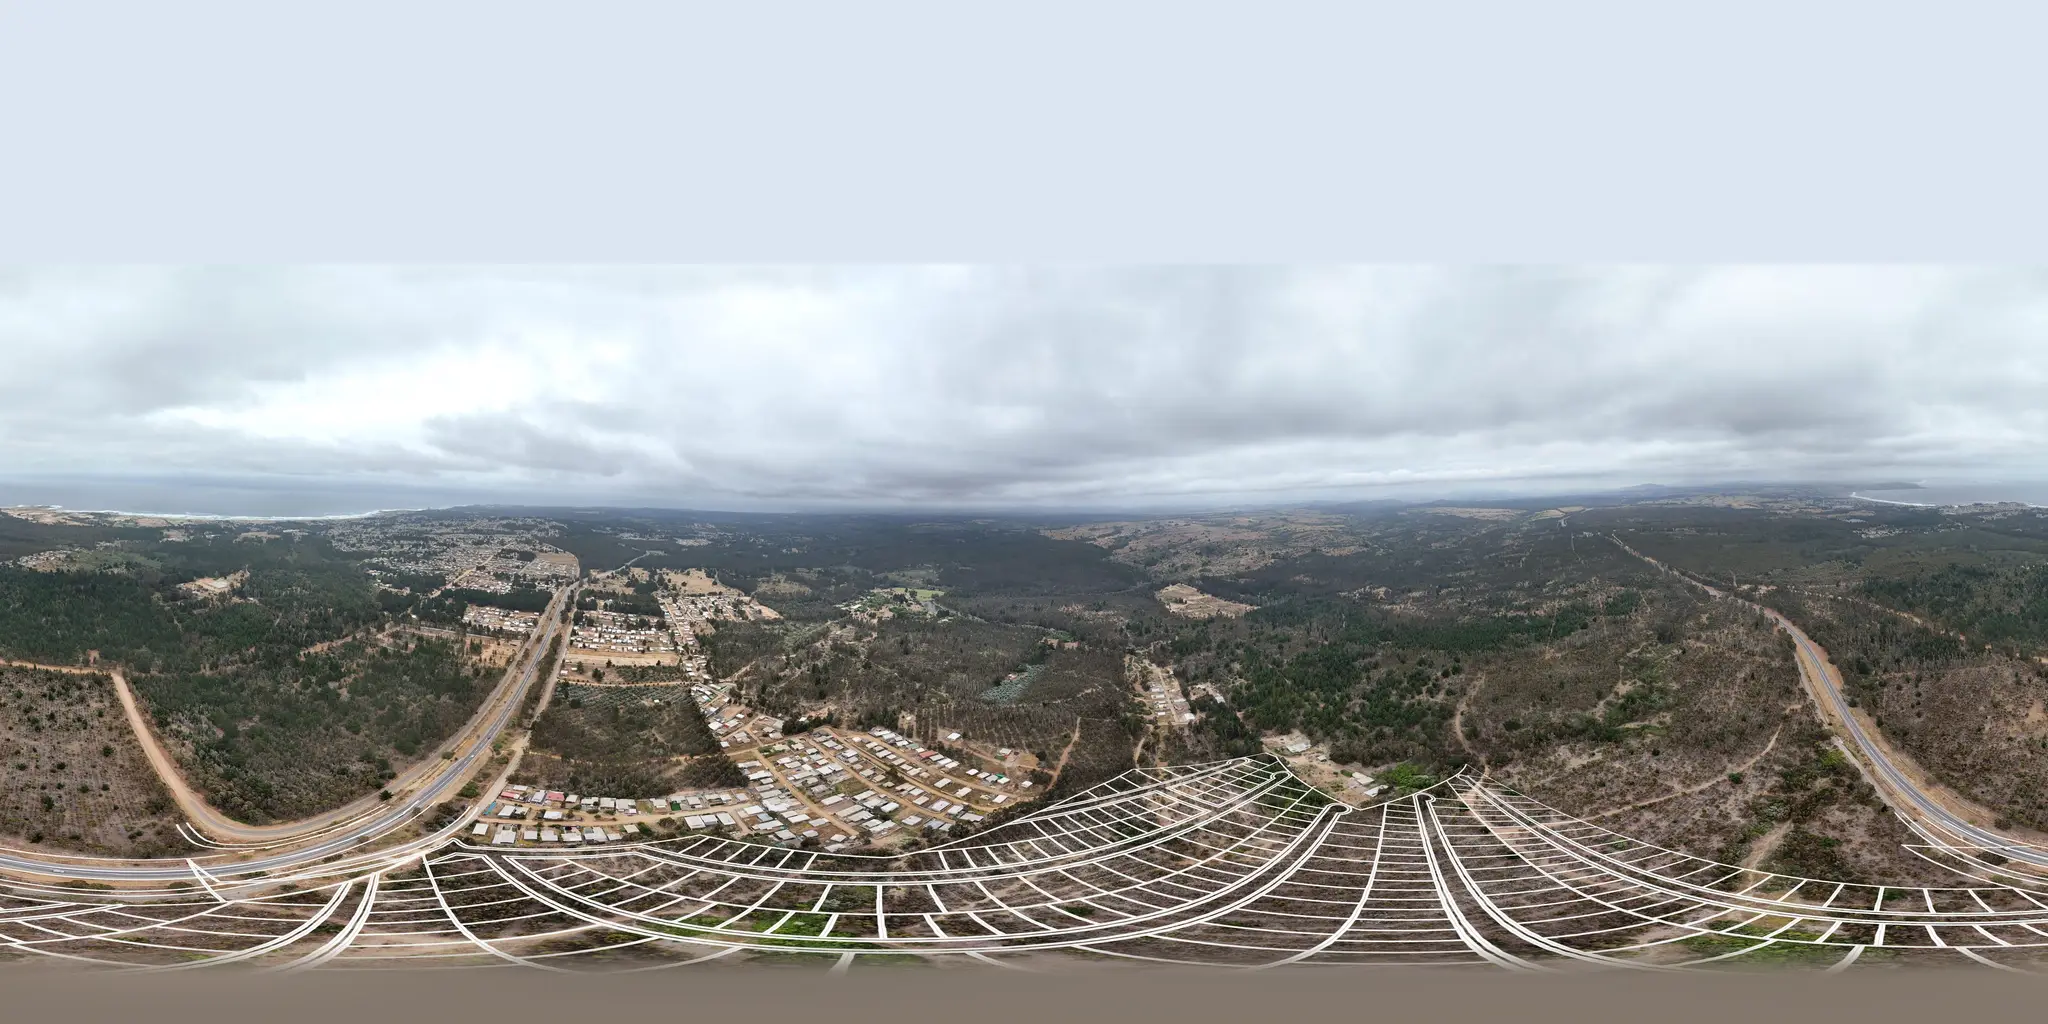
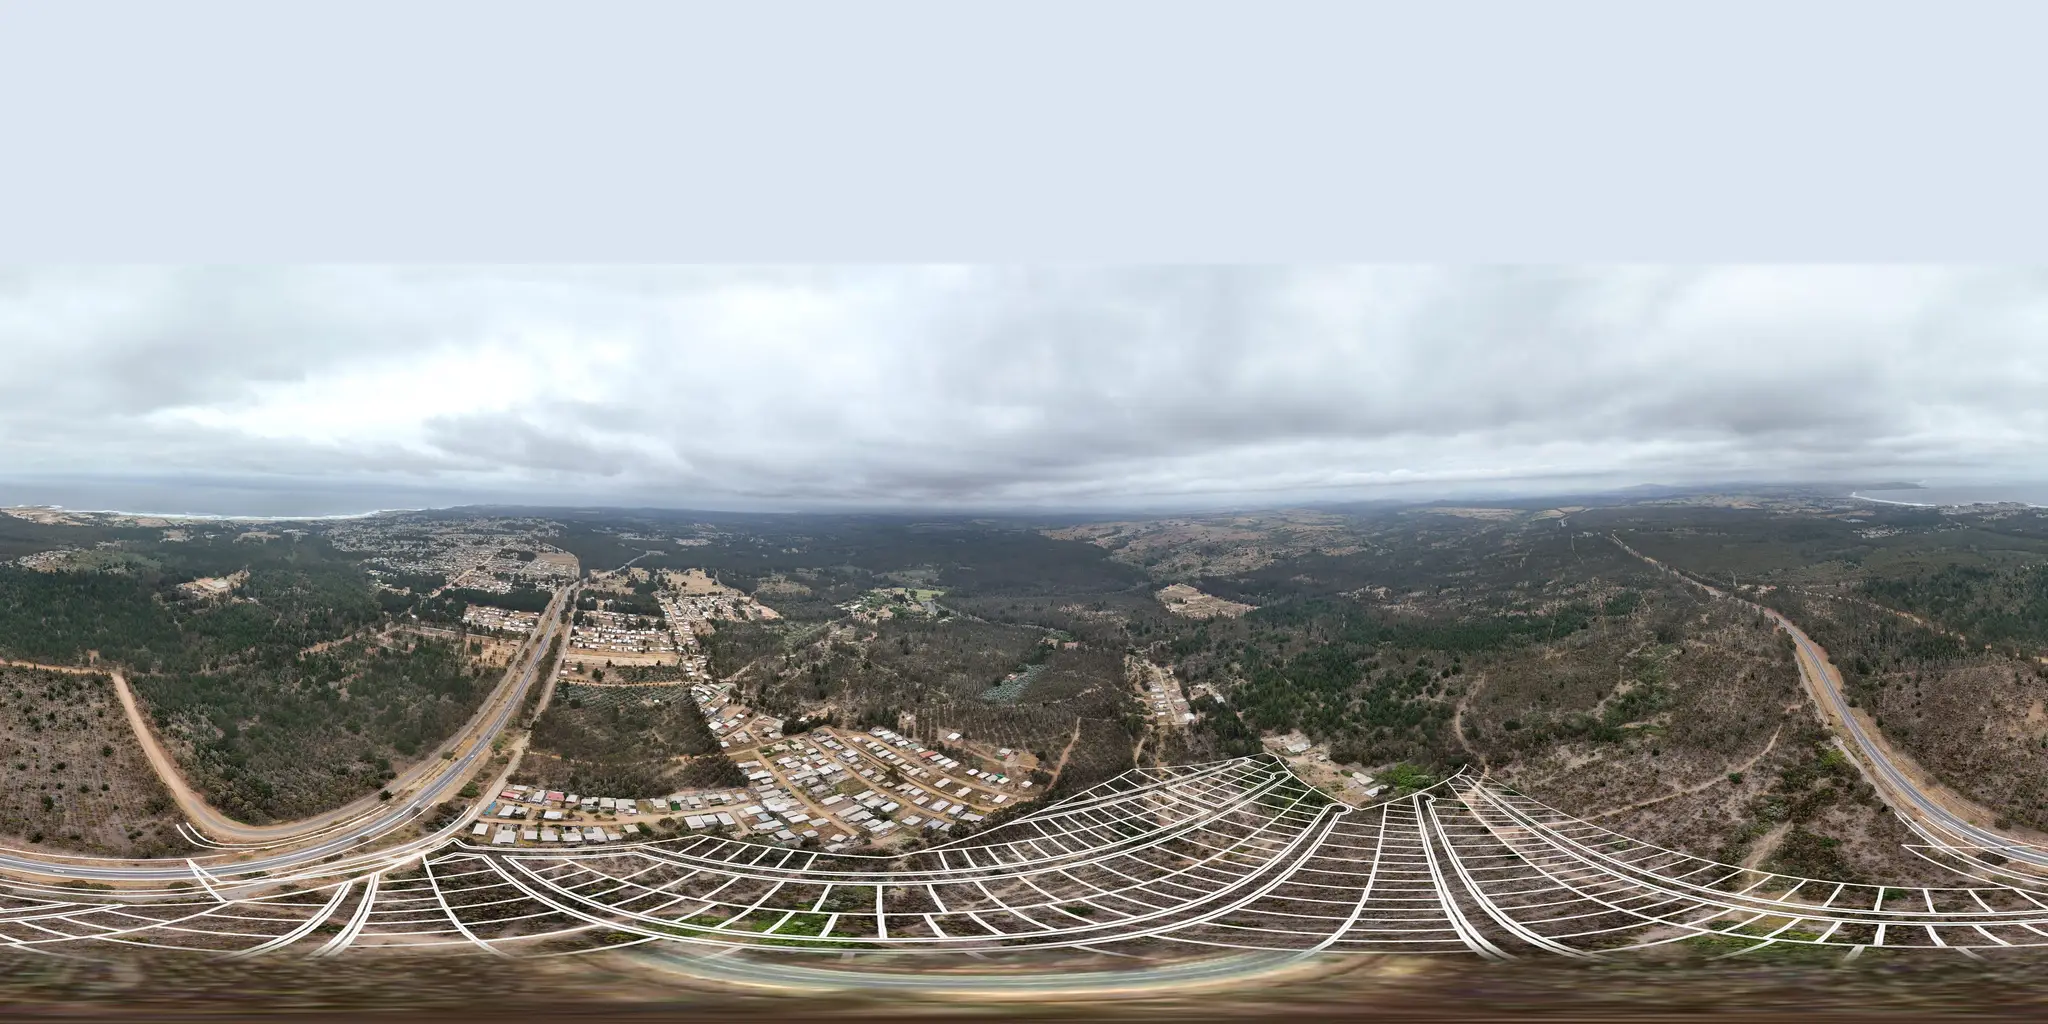
fix(mapa-3d): el agujero del centro se tapa con suelo real, no con color
La panoramica no tiene suelo utilizable en los ultimos 15 grados hacia abajo,
y el calce pone al dron a 260 m sobre (-120, 284), o sea dentro del loteo: ese
cono ciego aterriza como un circulo de 140 m justo en el medio del mapa.
Ningun relleno pintado lo arregla, y se probaron seis.

Ahora la franja se llena con satelital de Esri de ese mismo punto, reproyectada
al hornear. Cada pixel de la franja es una direccion desde el dron: se invierte
la misma cuenta que usa el manto —angulo bajo el horizonte y rumbo—, se cruza
con el suelo y se mira que color tiene el satelite ahi. Al ser la inversa exacta
de lo que hace el manto, vuelve a caer donde corresponde. No hay capa nueva ni
geometria nueva, y el visitante no pide nada: son 4 mosaicos bajados una vez, al
compilar.

El satelite viene de otro dia y otra camara, asi que se le igualan media y
desviacion por canal contra la foto, medidas en el anillo donde las dos
conviven. Los deslindes dibujados quedan fuera de esa medicion: son blancos y
puros, y contados reventaban el contraste del parche.

La ortofoto no servia para esto. Su georreferenciado deja el punto ciego en la
fila 1311 de una imagen de 1276 de alto, fuera de la foto, y 40 de los 137
centros de lote tambien caen fuera. Ademas trae el plano viejo pintado encima
del 21 % de su superficie.

Esto ata la panoramica publicada a vuelo.json: si cambia el calce, hay que
volver a correr el script.

Changed region(s): [[0.0, 0.9062, 1.0, 1.0]]

diff --git a/scripts/importar-plano-panoramica.js b/scripts/importar-plano-panoramica.js
@@ -17,6 +17,10 @@
  *
  * Escribe public/lomas3d/pano-360.webp y pano-360-lite.webp.
  *
+ * Tapa ademas el agujero del nadir con satelital de Esri, reproyectada aqui
+ * mismo. Eso hace que la salida dependa de public/lomas3d/vuelo.json: si el
+ * calce cambia, hay que volver a correr este script o el parche queda corrido.
+ *
  * Despues hay que recalcular el calce, porque la foto nueva no tiene por que
  * mirar hacia donde miraba la anterior:
  *
@@ -30,6 +34,13 @@ const sharp = require('sharp')
 const RAIZ = path.join(__dirname, '..')
 const SALIDA = path.join(RAIZ, 'public/lomas3d/pano-360.webp')
 const SALIDA_LITE = path.join(RAIZ, 'public/lomas3d/pano-360-lite.webp')
+const VUELO = path.join(RAIZ, 'public/lomas3d/vuelo.json')
+const MAPA = path.join(RAIZ, 'public/lomas3d/mapa-data.json')
+
+/* Esri no pasa de z18 en El Tabo: z19 responde "map data not yet available".
+   A esta latitud z18 son unos 50 cm por pixel. */
+const SAT = 'https://server.arcgisonline.com/ArcGIS/rest/services/World_Imagery/MapServer/tile'
+const SAT_Z = 18
 
 /** Ancho de la equirectangular que se publica. El alto sale de la relacion 2:1. */
 const ANCHO = 6144
@@ -65,6 +76,69 @@ async function buscarHorizonte(archivo) {
         if (cieloPorFila[y - 1] >= 0.5 && cieloPorFila[y] < 0.5) return y / H
     }
     throw new Error('No se encontro el horizonte: el cielo no llega a cortarse.')
+}
+
+/*
+ * Mosaico satelital de un trozo de mundo, en memoria.
+ *
+ * Devuelve un muestreador bilineal por lat/lng. Se baja una sola vez, al
+ * compilar: el visitante no pide nada.
+ */
+async function mosaicoSatelital(la, lo, R, kx, cx, cz, radio) {
+    const N = 2 ** SAT_Z
+    const merc = (lat, lng) => {
+        const s = Math.sin(lat * Math.PI / 180)
+        return [(lng + 180) / 360 * N * 256,
+                (0.5 - Math.log((1 + s) / (1 - s)) / (4 * Math.PI)) * N * 256]
+    }
+    const aLL = (x, z) => [la - z / R, lo + x / kx]
+    const m = radio * 1.15   // un poco de margen para el bilineal del borde
+    const [pxW, pyN] = merc(...aLL(cx - m, cz - m))
+    const [pxE, pyS] = merc(...aLL(cx + m, cz + m))
+    const tx0 = Math.floor(Math.min(pxW, pxE) / 256), tx1 = Math.floor(Math.max(pxW, pxE) / 256)
+    const ty0 = Math.floor(Math.min(pyN, pyS) / 256), ty1 = Math.floor(Math.max(pyN, pyS) / 256)
+    const cols = tx1 - tx0 + 1, filas = ty1 - ty0 + 1
+
+    const piezas = []
+    let bajadas = 0
+    for (let ty = ty0; ty <= ty1; ty++) {
+        for (let tx = tx0; tx <= tx1; tx++) {
+            const r = await fetch(`${SAT}/${SAT_Z}/${ty}/${tx}`, {
+                headers: { 'User-Agent': 'aliminspa-build' }
+            })
+            if (!r.ok) { console.warn(`  mosaico ${tx}/${ty}: HTTP ${r.status}`); continue }
+            piezas.push({
+                input: Buffer.from(await r.arrayBuffer()),
+                left: (tx - tx0) * 256, top: (ty - ty0) * 256
+            })
+            bajadas++
+        }
+    }
+    if (!bajadas) throw new Error('No se pudo bajar ningun mosaico satelital.')
+    console.log(`Satelital: ${bajadas} de ${cols * filas} mosaicos z${SAT_Z}`)
+
+    const lienzo = await sharp({
+        create: { width: cols * 256, height: filas * 256, channels: 3, background: { r: 107, g: 91, b: 69 } }
+    }).composite(piezas).png().toBuffer()
+    const cr = await sharp(lienzo).raw().toBuffer({ resolveWithObject: true })
+    const SW = cr.info.width, SH = cr.info.height, SC = cr.info.channels, sd = cr.data
+    const ox = tx0 * 256, oy = ty0 * 256
+
+    /** Color del suelo en un punto del mundo, o null si cae fuera del mosaico. */
+    return (x, z) => {
+        const [plat, plng] = aLL(x, z)
+        const [mx, my] = merc(plat, plng)
+        const fx = mx - ox, fy = my - oy
+        if (fx < 0 || fy < 0 || fx >= SW - 1 || fy >= SH - 1) return null
+        const x0 = Math.floor(fx), y0 = Math.floor(fy), ax = fx - x0, ay = fy - y0
+        const en = (a, b) => (b * SW + a) * SC
+        const out = [0, 0, 0]
+        for (let c = 0; c < 3; c++) {
+            out[c] = (sd[en(x0, y0) + c] * (1 - ax) + sd[en(x0 + 1, y0) + c] * ax) * (1 - ay)
+                   + (sd[en(x0, y0 + 1) + c] * (1 - ax) + sd[en(x0 + 1, y0 + 1) + c] * ax) * ay
+        }
+        return out
+    }
 }
 
 async function main() {
@@ -179,22 +253,118 @@ async function main() {
     mr /= W; mg /= W; mb /= W
 
     const suave = t => { const u = Math.min(1, Math.max(0, t)); return u * u * (3 - 2 * u) }
+
+    /* Suelo de verdad para el agujero: satelital de ese mismo punto, traido a
+       coordenadas de la panoramica.
+
+       Cada pixel de la franja es una direccion desde el dron. Se invierte la
+       misma cuenta que usa el manto en el visor —angulo bajo el horizonte y
+       rumbo— se cruza con el suelo, y ahi se mira que color tiene el satelite.
+       Como es la inversa exacta de lo que hace el manto, al proyectarlo vuelve
+       a caer donde corresponde, sin capa nueva ni geometria nueva.
+
+       Supone suelo plano a la cota del dron. Sobre 70 m de radio el desnivel
+       corre el muestreo unos metros, que para un relleno blando no importa. */
+    const vuelo = JSON.parse(fs.readFileSync(VUELO, 'utf8'))
+    const mapa = JSON.parse(fs.readFileSync(MAPA, 'utf8'))
+    const RT = 111320, kx = RT * Math.cos(mapa.origin.lat * Math.PI / 180)
+    const TAU = Math.PI * 2
+    const yawRad = (vuelo.yaw || 0) * Math.PI / 180
+    const alt = vuelo.alt
+    // Radio de suelo que abarca la franja: el angulo de arriba de la franja.
+    const phiArranque = Math.PI * ((arranque + 0.5) / ALTO - 0.5)
+    const radioSuelo = alt / Math.tan(phiArranque)
+    console.log(`Agujero: ${franja} px de franja = ${(90 - phiArranque * 180 / Math.PI).toFixed(1)} grados sobre el nadir = ${radioSuelo.toFixed(0)} m de radio en el suelo a ${alt} m de vuelo`)
+
+    let muestra = null
+    try {
+        muestra = await mosaicoSatelital(mapa.origin.lat, mapa.origin.lng, RT, kx, vuelo.x, vuelo.z, radioSuelo)
+    } catch (e) {
+        console.warn(`Sin satelital (${e.message}): la franja queda con el color liso de respaldo.`)
+    }
+
+    /* Igualar el satelite a la foto: viene de otro dia, otra camara y otra
+       hora. Igualar solo la media dejaba el parche lavado —el satelite tiene
+       menos contraste y al subirle el brillo se aplana—, asi que se igualan
+       media y desviacion por canal sobre el anillo donde las dos imagenes
+       conviven. Es la correccion clasica de transferencia de color. */
+    let ajuste = null
+    if (muestra) {
+        const nf = [0, 0, 0], nf2 = [0, 0, 0], ns = [0, 0, 0], ns2 = [0, 0, 0]
+        let n = 0
+        for (let y = arranque; y < ALTO; y += 2) {
+            const w = suave((y - arranque) / (franja * 0.32))
+            if (w < 0.12 || w > 0.5) continue
+            const phi = Math.PI * ((y + 0.5) / ALTO - 0.5)
+            const r = alt / Math.tan(phi)
+            for (let x = 0; x < W; x += 8) {
+                const t = Math.PI + yawRad - TAU * (x + 0.5) / W
+                const c = muestra(vuelo.x + Math.cos(t) * r, vuelo.z + Math.sin(t) * r)
+                if (!c) continue
+                const i = (y * W + x) * C
+                /* Los deslindes dibujados son blancos y puros, y no son suelo:
+                   contados, inflaban la desviacion de la foto y el satelite
+                   salia con el contraste reventado. */
+                const mn = Math.min(px[i], px[i + 1], px[i + 2])
+                const mx = Math.max(px[i], px[i + 1], px[i + 2])
+                if (mn > 195 && mx - mn < 35) continue
+                for (let k = 0; k < 3; k++) {
+                    nf[k] += px[i + k]; nf2[k] += px[i + k] ** 2
+                    ns[k] += c[k]; ns2[k] += c[k] ** 2
+                }
+                n++
+            }
+        }
+        if (n > 500) {
+            ajuste = [0, 1, 2].map(k => {
+                const mf = nf[k] / n, ms = ns[k] / n
+                const df = Math.sqrt(Math.max(1, nf2[k] / n - mf * mf))
+                const ds = Math.sqrt(Math.max(1, ns2[k] / n - ms * ms))
+                // El factor se acota: sin tope, un anillo con poco contraste
+                // dispara el ruido del satelite.
+                return { ms, mf, k: Math.min(1.8, Math.max(0.5, df / ds)) }
+            })
+            console.log('Igualado de color sobre ' + n + ' muestras:')
+            for (const [i, a] of ajuste.entries()) {
+                console.log(`  canal ${'RGB'[i]}: media ${a.ms.toFixed(0)} → ${a.mf.toFixed(0)}, contraste ×${a.k.toFixed(2)}`)
+            }
+        } else {
+            console.warn(`Pocas muestras (${n}) para igualar color: se deja sin corregir.`)
+        }
+    }
+    const corregir = (c, k) => ajuste
+        ? Math.min(255, Math.max(0, (c - ajuste[k].ms) * ajuste[k].k + ajuste[k].mf))
+        : c
+
+    let conSat = 0, sinSat = 0
     for (let y = arranque; y < ALTO; y++) {
         // w: cuanto manda el relleno sobre la foto. w2: cuanto se cierra al
-        // promedio, para que el punto exacto del nadir sea de un solo color.
-        const w = suave((y - arranque) / (franja * 0.47))
+        // promedio, para el respaldo liso cuando no hay satelital.
+        const w = suave((y - arranque) / (franja * 0.32))
         const w2 = suave((y - arranque) / franja)
+        const phi = Math.PI * ((y + 0.5) / ALTO - 0.5)
+        const r = alt / Math.tan(phi)
         for (let x = 0; x < W; x++) {
             const i = (y * W + x) * C
-            const fr = color[x * 3] * (1 - w2) + mr * w2
-            const fg = color[x * 3 + 1] * (1 - w2) + mg * w2
-            const fb = color[x * 3 + 2] * (1 - w2) + mb * w2
+            let fr, fg, fb
+            const c = muestra && muestra(vuelo.x + Math.cos(Math.PI + yawRad - TAU * (x + 0.5) / W) * r,
+                                        vuelo.z + Math.sin(Math.PI + yawRad - TAU * (x + 0.5) / W) * r)
+            if (c) {
+                fr = corregir(c[0], 0); fg = corregir(c[1], 1); fb = corregir(c[2], 2)
+                conSat++
+            } else {
+                // Respaldo: el color del suelo en ese rumbo, cerrando al promedio.
+                fr = color[x * 3] * (1 - w2) + mr * w2
+                fg = color[x * 3 + 1] * (1 - w2) + mg * w2
+                fb = color[x * 3 + 2] * (1 - w2) + mb * w2
+                sinSat++
+            }
             px[i] = px[i] * (1 - w) + fr * w
             px[i + 1] = px[i + 1] * (1 - w) + fg * w
             px[i + 2] = px[i + 2] * (1 - w) + fb * w
         }
     }
-    console.log(`Nadir: ${franja} px de franja (${(franja / ALTO * 180).toFixed(1)} grados sobre el nadir), color tomado de las filas ${refA}-${refB}`)
+    console.log(`Franja: ${(conSat / (conSat + sinSat) * 100).toFixed(1)} % con satelital, el resto con color de respaldo`)
 
     const completa = await sharp(px, { raw: cruda.info }).png().toBuffer()
 
